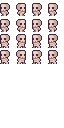
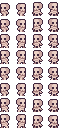
Skeleton class prettier

diff --git a/2DGame/02-Bubble/02-Bubble/Skeleton.cpp b/2DGame/02-Bubble/02-Bubble/Skeleton.cpp
@@ -9,7 +9,7 @@
 
 enum SkeletonAnims
 {
-	MOVE_LEFT, MOVE_RIGHT
+	MOVE_LEFT, MOVE_RIGHT, STAND_LEFT, STAND_RIGHT
 };
 
 Skeleton::Skeleton()
@@ -18,25 +18,25 @@ Skeleton::Skeleton()
 	actualMovement = {0, movement[0].second};
 }
 
-void Skeleton::init(const glm::ivec2 & tileMapPos, ShaderProgram & shaderProgram)
+void Skeleton::init(string textureFile, int numberOfAnimations, const glm::ivec2 & tileMapPos, ShaderProgram & shaderProgram)
 {
-	spritesheet.loadFromFile("images/skeleton.png", TEXTURE_PIXEL_FORMAT_RGBA);
+	spritesheet.loadFromFile(textureFile, TEXTURE_PIXEL_FORMAT_RGBA);
 	spritesheet.setMagFilter(GL_NEAREST);
-	sprite = Sprite::createSprite(glm::ivec2(16, 16), glm::vec2(0.25f, 1 / 8.f), &spritesheet, &shaderProgram);
-	sprite->setNumberAnimations(5);
+	float disp = 1.0f / numberOfAnimations;
 
-	sprite->setAnimationSpeed(MOVE_LEFT, 8);
-	sprite->addKeyframe(MOVE_LEFT, glm::vec2(0, 0.f));
-	sprite->addKeyframe(MOVE_LEFT, glm::vec2(0, 1 / 8.f));
-	sprite->addKeyframe(MOVE_LEFT, glm::vec2(0, 2 / 8.f));
-	sprite->addKeyframe(MOVE_LEFT, glm::vec2(0, 3 / 8.f));
-
-	sprite->setAnimationSpeed(MOVE_RIGHT, 8);
-	sprite->addKeyframe(MOVE_RIGHT, glm::vec2(0.25f, 0.f));
-	sprite->addKeyframe(MOVE_RIGHT, glm::vec2(0.25f, 1 / 8.f));
-	sprite->addKeyframe(MOVE_RIGHT, glm::vec2(0.25f, 2 / 8.f));
-	sprite->addKeyframe(MOVE_RIGHT, glm::vec2(0.25f, 3 / 8.f));
-
+	sprite = Sprite::createSprite(glm::ivec2(16, 16), glm::vec2(disp, 1 / 8.f), &spritesheet, &shaderProgram);
+	sprite->setNumberAnimations(numberOfAnimations);
+	for (int i = 0; i < numberOfAnimations; ++i) {
+		sprite->setAnimationSpeed(SkeletonAnims(i), 8);
+		sprite->addKeyframe(SkeletonAnims(i), glm::vec2(disp*i, 0.f));
+		sprite->addKeyframe(SkeletonAnims(i), glm::vec2(disp*i, 1 / 8.f));
+		sprite->addKeyframe(SkeletonAnims(i), glm::vec2(disp*i, 2 / 8.f));
+		sprite->addKeyframe(SkeletonAnims(i), glm::vec2(disp*i, 3 / 8.f));
+		sprite->addKeyframe(SkeletonAnims(i), glm::vec2(disp*i, 4 / 8.f));
+		sprite->addKeyframe(SkeletonAnims(i), glm::vec2(disp*i, 5 / 8.f));
+		sprite->addKeyframe(SkeletonAnims(i), glm::vec2(disp*i, 6 / 8.f));
+		sprite->addKeyframe(SkeletonAnims(i), glm::vec2(disp*i, 7 / 8.f));
+	}
 
 	sprite->changeAnimation(0);
 	tileMapDispl = tileMapPos;
@@ -52,26 +52,21 @@ void Skeleton::update(int deltaTime)
 		if (sprite->animation() != MOVE_LEFT)
 			sprite->changeAnimation(MOVE_LEFT);
 		positionFloat.x -= SKELETON_SPEED;
-		if (map->collisionMoveLeft(positionFloat, glm::ivec2(SKELETON_WIDTH, SKELETON_HEIGHT)))
-		{
-			positionFloat.x += SKELETON_SPEED;
-			//sprite->changeAnimation(STAND_LEFT);
-		}
+		
 	}
 	else if (movement[actualMovement.first].first == RIGHT)
 	{
 		if (sprite->animation() != MOVE_RIGHT)
 			sprite->changeAnimation(MOVE_RIGHT);
 		positionFloat.x += SKELETON_SPEED;
-		if (map->collisionMoveRight(positionFloat, glm::ivec2(SKELETON_WIDTH, SKELETON_HEIGHT)))
-		{
-			positionFloat.x -= SKELETON_SPEED;
-			//sprite->changeAnimation(STAND_RIGHT);
-		}
+		
 	}
 	else if (movement[actualMovement.first].first == STOP)
 	{
-		//sprite->changeAnimation(STAND);
+		if (sprite->animation() == MOVE_LEFT)
+			sprite->changeAnimation(STAND_LEFT);
+		else if (sprite->animation() == MOVE_RIGHT)
+			sprite->changeAnimation(STAND_RIGHT);
 	}
 
 	--actualMovement.second;

diff --git a/2DGame/02-Bubble/02-Bubble/Scene.cpp b/2DGame/02-Bubble/02-Bubble/Scene.cpp
@@ -41,7 +41,7 @@ void Scene::init()
 	player->setTileMap(map);
 
 	skeleton = new Skeleton();
-	skeleton->init(glm::ivec2(SCREEN_X, SCREEN_Y), texProgram);
+	skeleton->init("images/skeleton.png", 4, glm::ivec2(SCREEN_X, SCREEN_Y), texProgram);
 	skeleton->setPosition(glm::vec2(skeleton->getInitialPosition() * map->getTileSize()));
 	skeleton->setTileMap(map);
 

diff --git a/2DGame/02-Bubble/02-Bubble/Skeleton.h b/2DGame/02-Bubble/02-Bubble/Skeleton.h
@@ -14,7 +14,7 @@ class Skeleton
 	};
 public:
 	Skeleton();
-	void init(const glm::ivec2 &tileMapPos, ShaderProgram &shaderProgram);
+	void init(string textureFile, int numberOfAnimations, const glm::ivec2 &tileMapPos, ShaderProgram &shaderProgram);
 	void update(int deltaTime);
 	void render();
 
